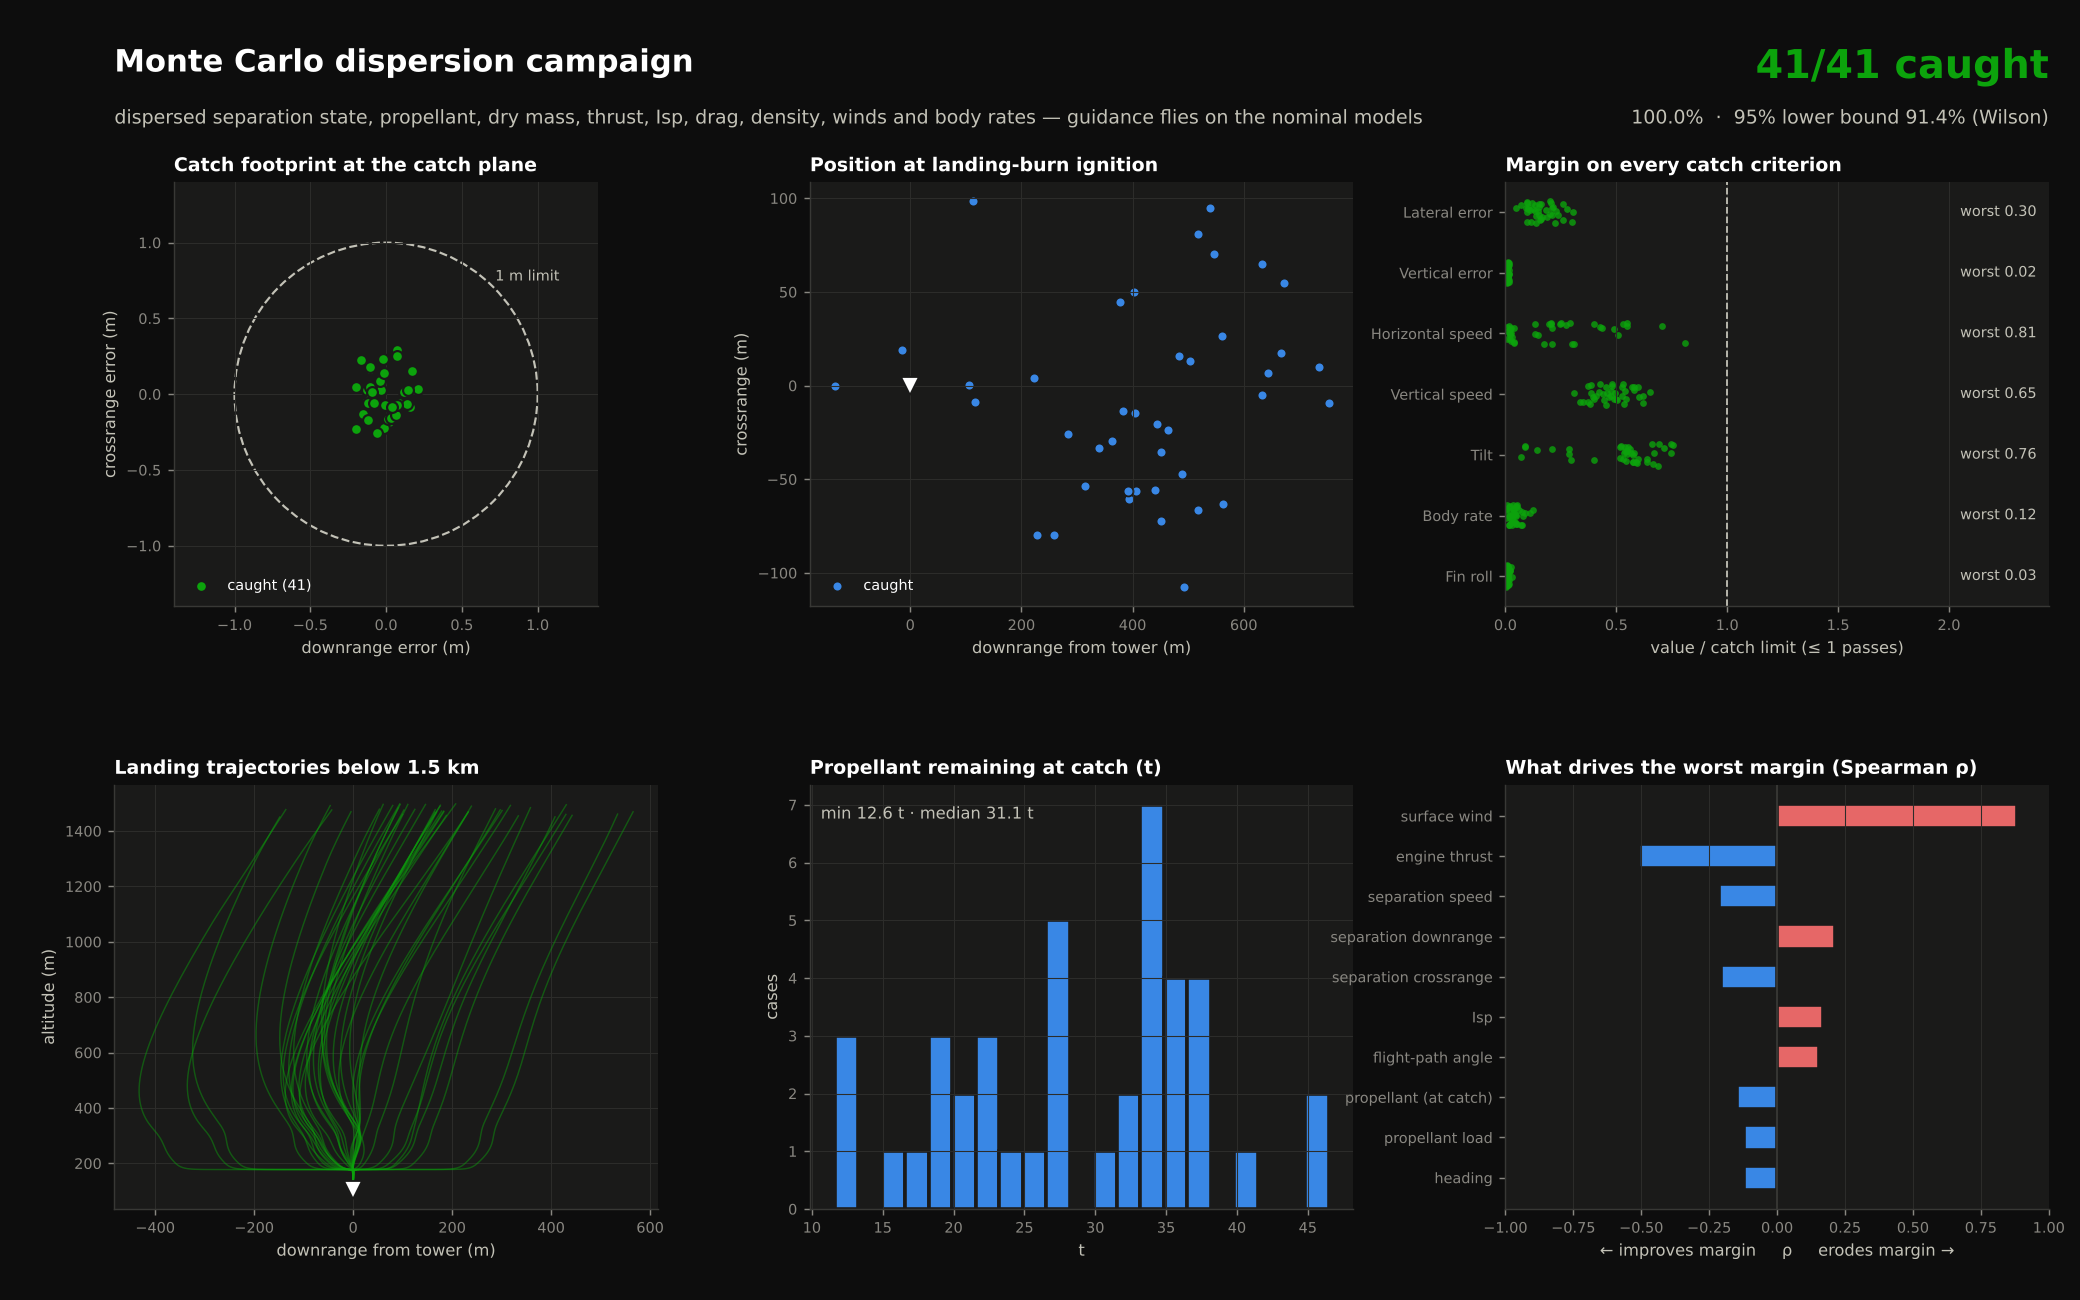
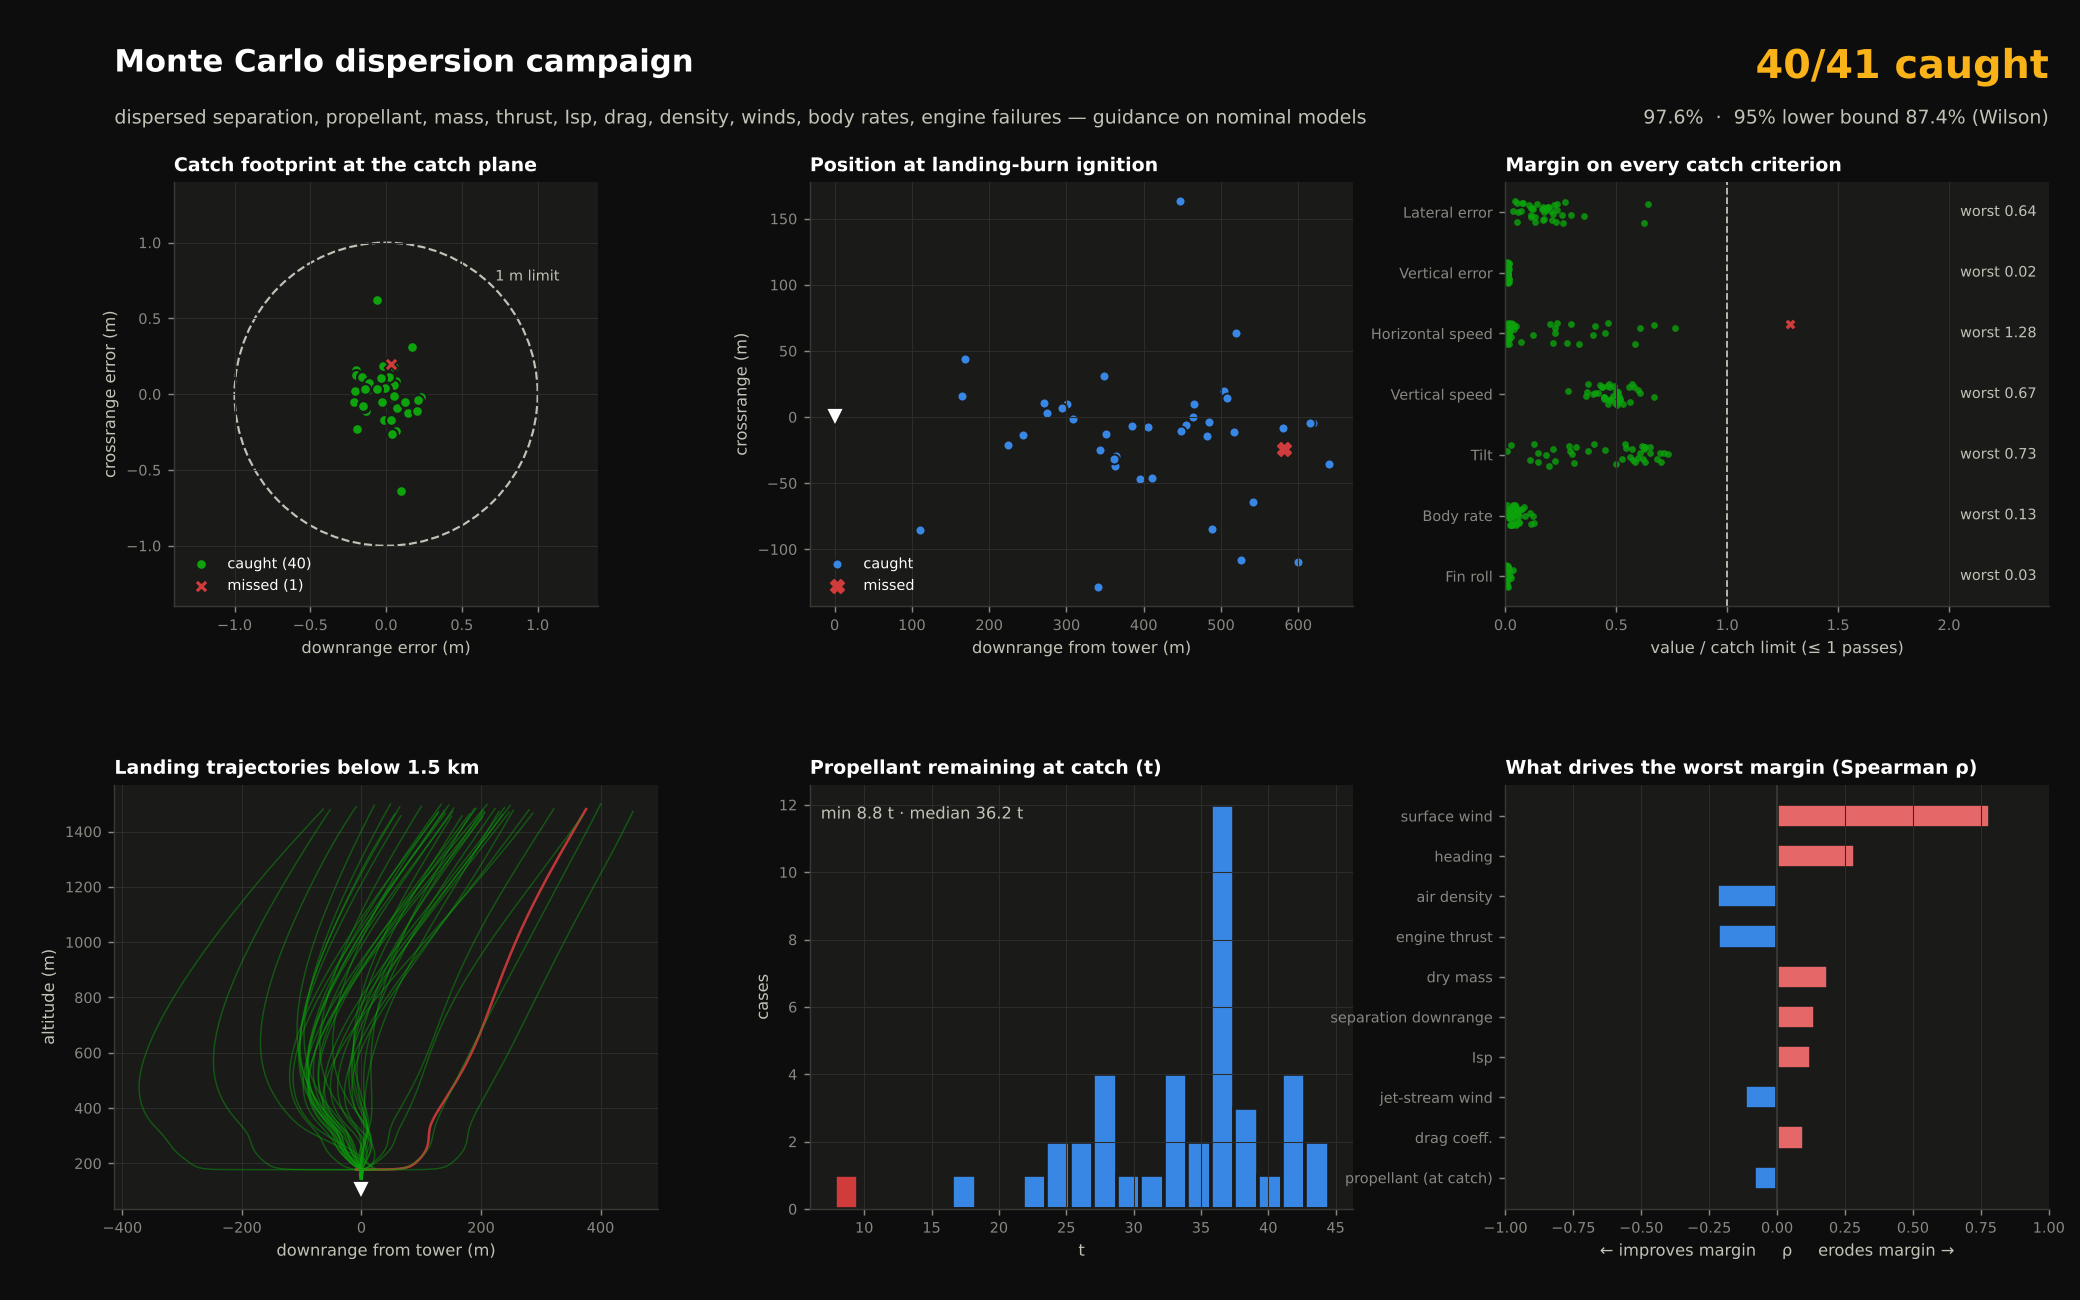
Flight 15 Monte Carlo figure with engine failures (40/41); failure inputs in the driver ranking
Claude-Session: https://claude.ai/code/session_01UWG1WERXxcxRgYaPocUTn6

diff --git a/quatsim/visuals.py b/quatsim/visuals.py
@@ -540,9 +540,9 @@ def monte_carlo_report(results: list[dict], path: str = "figs/monte_carlo.png",
     fig.text(0.055, 0.945, "Monte Carlo dispersion campaign", fontsize=17,
              weight="bold")
     fig.text(0.055, 0.905,
-             "dispersed separation state, propellant, dry mass, thrust, Isp, "
-             "drag, density, winds and body rates — guidance flies on the "
-             "nominal models", fontsize=10.5, color=INK2)
+             "dispersed separation, propellant, mass, thrust, Isp, drag, density, "
+             "winds, body rates, engine failures — guidance on nominal models",
+             fontsize=10.5, color=INK2)
     fig.text(0.985, 0.94, f"{k}/{n} caught", ha="right", fontsize=22,
              weight="bold", color=GOOD if k == n else WARNING)
     fig.text(0.985, 0.905, f"{100 * k / n:.1f}%  ·  95% lower bound "
@@ -658,13 +658,21 @@ def monte_carlo_report(results: list[dict], path: str = "figs/monte_carlo.png",
         "engine thrust": "k_thrust", "Isp": "k_isp", "drag coeff.": "k_cd",
         "air density": "k_rho", "surface wind": "wind_surface",
         "jet-stream wind": "wind_jet",
+        "engines failing to relight": "relight_fail", "engine shutdown in burn": "shutdown",
     }
     # worst margin across criteria (max value/limit) per case
     W = np.nanmax(np.column_stack([arr(k_) / LIMITS[k_][0] for k_ in keys]),
                   axis=1)
     corr = {}
     for lab, key in inputs.items():
-        x = arr(key)
+        if key == "shutdown":                       # an in-flight shutdown happened (0 / 1)
+            if not all("shutdown_t" in r for r in rows):
+                continue
+            x = (arr("shutdown_t") >= 0.0).astype(float)
+        elif not all(key in r for r in rows):
+            continue
+        else:
+            x = arr(key)
         if np.nanstd(x) == 0:
             continue
         rx = np.argsort(np.argsort(x)); ry = np.argsort(np.argsort(W))
